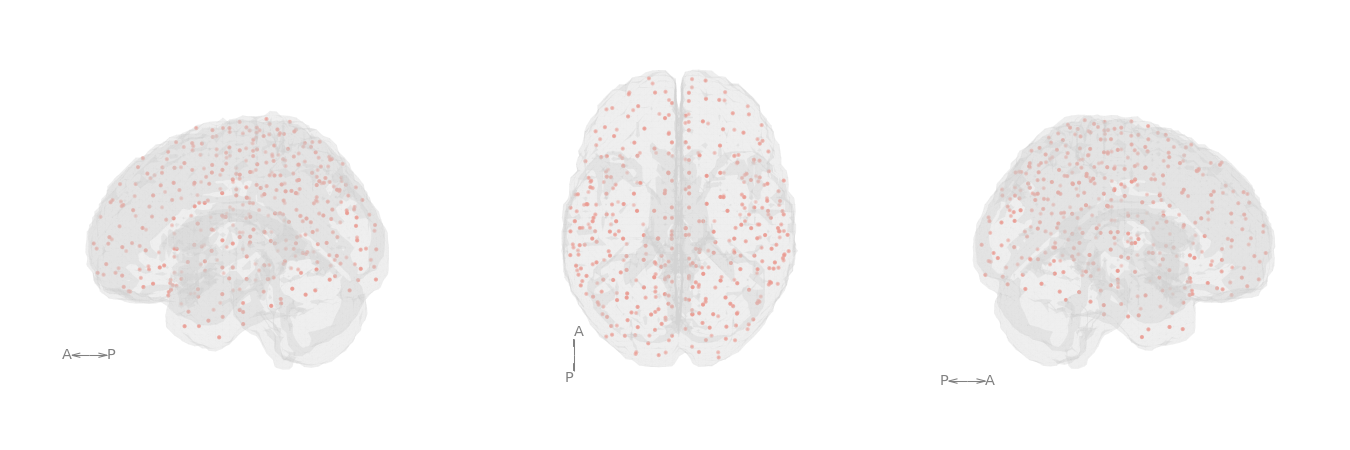
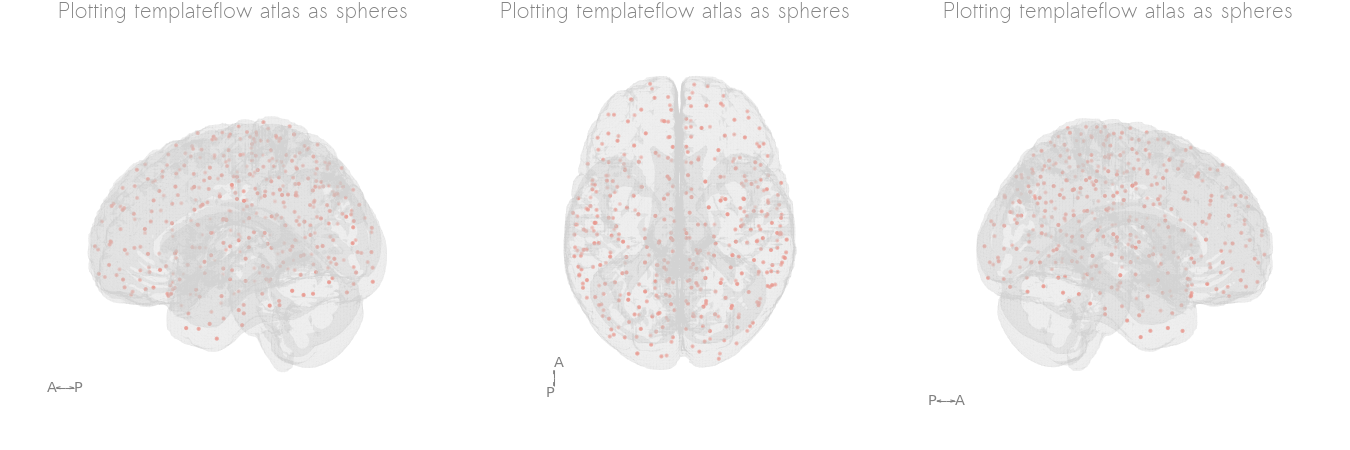
changes to nodecolorby integration with package

diff --git a/netplotbrain/plot.py b/netplotbrain/plot.py
@@ -5,13 +5,13 @@ import pandas as pd
 from .plotting import _plot_template, _plot_template_style_filled, _plot_template_style_cloudy,\
     _plot_edges, _plot_nodes, _plot_spheres, _set_axes_equal, _set_axes_radius, _get_view,\
     _scale_nodes, _add_axis_arrows, _plot_template_style_surface, _get_nodes_from_nii, _plot_parcels,\
-    _select_single_hemisphere_nodes, _npedges2dfedges, _add_subplot_title, get_frame_input
+    _select_single_hemisphere_nodes, _npedges2dfedges, _add_subplot_title, get_frame_input, _get_colorby_colors
 
 
 def plot(nodes=None, fig=None, ax=None, view='L', frames=1, edges=None, template=None, templatestyle='filled', templatealpha=0.2,
          templatevoxsize=None, templatecolor='lightgray', surface_resolution=2, templateedgethreshold=0.7, arrowaxis='auto', arrowlength=10,
-         arroworigin=None, edgecolor='k', edgewidth='auto', nodesize=1, nodescale=5, nodecolor='salmon', nodetype='spheres', colorby=None,
-         weightcol='weights', nodecols=['x', 'y', 'z'], nodeimg=None, nodealpha=1, hemisphere='both', title='auto', highlightnodes=None):
+         arroworigin=None, edgecolor='k', edgewidth='auto', nodesize=1, nodescale=5, nodecolor='salmon', nodetype='spheres', nodecolorby=None,
+         nodecmap='Dark2', weightcol='weights', nodecols=['x', 'y', 'z'], nodeimg=None, nodealpha=1, hemisphere='both', title='auto', highlightnodes=None):
     # sourcery skip: merge-nested-ifs
     """
     Plot a network on a brain
@@ -68,6 +68,10 @@ def plot(nodes=None, fig=None, ax=None, view='L', frames=1, edges=None, template
         Specify width of edges. If auto, will plot the value in edge array (if array) or the weight column (if in pandas dataframe), otherwise 2.
     nodesize : str, int, float
         If string, can plot a column
+    nodecolorby : str
+        Column in dataframe that should get different colors (cannot be set with nodecolor)
+    nodecmap : str
+        Matplotlib colormap for node coloring with nodecolorby. 
     nodecolor : matplotlib coloring
         Can be string (default 'black') or list of 3D/4D colors for each edge.
     nodetype : str
@@ -137,7 +141,9 @@ def plot(nodes=None, fig=None, ax=None, view='L', frames=1, edges=None, template
     if nodeimg is not None:
         nodes, nodeimg = _get_nodes_from_nii(
             nodeimg, voxsize=templatevoxsize, template=template)
-
+    # Set nodecolor to colorby argument
+    if nodecolorby is not None:
+        nodecolor = _get_colorby_colors(nodes, nodecolorby, nodecmap)
     ax_in = ax
     # Prespecify ouput ax list
     ax_out = []
@@ -186,7 +192,7 @@ def plot(nodes=None, fig=None, ax=None, view='L', frames=1, edges=None, template
                 nodes_frame = _select_single_hemisphere_nodes(nodes_frame, affine, hemi_frame, nodecols)
                 if nodetype == 'spheres':
                     _plot_spheres(ax, nodes_frame, nodecolor=nodecolor,
-                                  nodesize=nodesize, nodecols=nodecols, nodescale=nodescale, colorby=colorby)
+                                  nodesize=nodesize, nodecols=nodecols, nodescale=nodescale)
                 elif nodetype == 'circles':
                     _plot_nodes(ax, nodes_frame, nodecolor=nodecolor,
                                 nodesize=nodesize, nodecols=nodecols)

diff --git a/netplotbrain/plotting/plot_spheres.py b/netplotbrain/plotting/plot_spheres.py
@@ -2,18 +2,9 @@ import matplotlib.pyplot as plt
 import numpy as np
 import pandas as pd
 import random
-from matplotlib import cm
-import mplcursors
 
-def _get_color(nodes, colorby='communities', cmap='plasma'):
-    
-    cat = np.unique(nodes[colorby])
-    cmap = cm.get_cmap(cmap)
-    colors = cmap(np.linspace(0, 1, len(cat)))
-    colordict = dict(zip(cat, colors))
-    nodes["Color"] = nodes[colorby].apply(lambda z:colordict[z])
-        
-def _plot_spheres(ax, nodes, nodecolor='salmon', colorby='communities', nodesize=20, nodescale=1, nodecols=['x', 'y', 'z'], alpha=None):
+
+def _plot_spheres(ax, nodes, nodecolor='salmon', nodesize=20, nodescale=1, nodecols=['x', 'y', 'z'], alpha=None):
     """
     Function that plots spheres in figure
 
@@ -57,13 +48,12 @@ def _plot_spheres(ax, nodes, nodecolor='salmon', colorby='communities', nodesize
         y = r*np.sin(u)*np.sin(v)
         z = r*np.cos(v)
         
-        if colorby is None:
-            ax.plot_surface(c[0]+x, c[1]+y, c[2]+z,
-                            color=nodecolor,
-                            alpha=alpha)
-        if colorby in nodes.keys():
-            mplcursors.cursor((ax.plot_surface(c[0]+x, c[1]+y, c[2]+z,
-                            color=_get_color(nodes),
-                            alpha=alpha))
-        
-        
+        # Select the node color if string or array
+        if len(nodecolor) == len(nodes):
+            ncolor = nodecolor[index]
+        else:
+            ncolor = nodecolor
+            
+        ax.plot_surface(c[0]+x, c[1]+y, c[2]+z,
+                        color=ncolor,
+                        alpha=alpha)

diff --git a/examples/example1.py b/examples/example1.py
@@ -24,11 +24,11 @@ edges = pd.read_csv('./examples/example_edges.tsv', sep='\t', index_col=0)
 # Plot single view
 netplotbrain.plot(template='MNI152NLin2009cAsym',
                   templatestyle='surface',
-                  view='R',
+                  view='SLR',
                   nodes=nodes,
                   nodesize='centrality_measure1',
                   edges=edges,
-                  colorby='communities')
+                  nodecolorby='community')
 
 plt.savefig('./examples/figures/singleview.png', dpi=150)
 
@@ -70,6 +70,7 @@ netplotbrain.plot(template='MNI152NLin2009cAsym',
                   nodes=nodes,
                   nodesize='centrality_measure1',
                   edges=edges,
+                  nodecolorby='community',
                   view=['LSR', 'AIP'],
                   frames=2)
                   
@@ -130,7 +131,7 @@ netplotbrain.plot(template='WHS',
          nodes=nodes / 8,
          nodesize='centrality_measure1',
          edges=edges,
-         colorby='communities',
+         nodecolorby='community',
          nodescale=80,
          templatevoxsize=0.2)
 

diff --git a/netplotbrain/plotting/plot_utils.py b/netplotbrain/plotting/plot_utils.py
@@ -1,10 +1,35 @@
 import numpy as np
 import matplotlib.pyplot as plt
+from matplotlib import cm
 
 # equal scaling solution from @AndrewCox from https://stackoverflow.com/a/63625222
 # Functions from @Mateen Ulhaq and @karlo
 
+def _get_colorby_colors(df, colorby=None, cmap='plasma'):
+    """
+    Get array of different colors by some column 
 
+    Parameters
+    -------------------
+    df : dataframe
+        dataframe to look in for colorby argument (nodes or edges dataframe)
+    colorby : str
+        column in dataframe
+    cmap : colormap
+
+    Returns
+    -------------------
+    color_array : numpy array 
+        A N x 4 list of matplotlib colours for each node  
+    """
+    cat = np.unique(df[colorby])
+    cmap = cm.get_cmap(cmap)
+    colors = cmap(np.linspace(0, 1, len(cat)))
+    colordict = dict(zip(cat, colors))
+    color_array = df[colorby].apply(lambda z:colordict[z])
+    color_array = np.vstack(color_array.values)
+    return color_array
+        
 def _set_axes_equal(ax: plt.Axes):
     """Set 3D plot axes to equal scale.
 

diff --git a/netplotbrain/plotting/__init__.py b/netplotbrain/plotting/__init__.py
@@ -1,4 +1,4 @@
-from .plot_utils import _set_axes_equal, _set_axes_radius, _get_view
+from .plot_utils import _set_axes_equal, _set_axes_radius, _get_view, _get_colorby_colors
 from .plot_edges import _plot_edges, _npedges2dfedges
 from .plot_nodes import _scale_nodes, _plot_nodes, _select_single_hemisphere_nodes
 from .plot_spheres import _plot_spheres
@@ -8,7 +8,7 @@ from .plot_dimarrows import _add_axis_arrows
 from .plot_parcels import _get_nodes_from_nii, _plot_parcels
 from .plot_title import _add_subplot_title
 from .process_input import get_frame_input
-__all__ = ['_set_axes_equal', '_set_axes_radius', '_get_view',
+__all__ = ['_set_axes_equal', '_get_colorby_colors', '_set_axes_radius', '_get_view',
            '_plot_template', '_plot_template_style_filled',
            '_plot_template_style_cloudy',
            '_scale_nodes', '_plot_nodes', '_plot_spheres',
